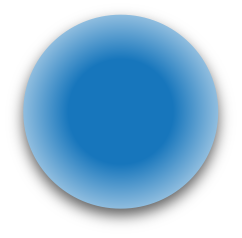
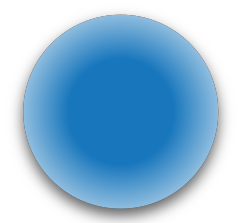
- Startbutton durch Label ersetzt - neue Bilder für Flaschen eingefügt mit Rahmen

diff --git a/GUI/main.py b/GUI/main.py
@@ -6,7 +6,8 @@ from PIL import Image, ImageTk
 import os
 
 # %% -----------------Farben definieren--------------------------------------------------------------------------------#
-col_Blue = '#%02x%02x%02x' % (1, 105, 196)  # RGB values
+# col_Blue = '#%02x%02x%02x' % (1, 105, 196)  # RGB values
+col_Blue = '#%02x%02x%02x' % (18, 123, 202)  # RGB values TEC blue
 col_Grey = '#%02x%02x%02x' % (200, 200, 200)  # RGB values
 col_GlobalBackground = '#%02x%02x%02x' % (200, 200, 200)  # RGB light grey
 
@@ -45,7 +46,6 @@ root.title("Ausschankroboter")
 root.attributes('-fullscreen', True)
 root.configure(background=col_GlobalBackground)
 
-
 # %% -----------------Bilddateien importieren--------------------------------------------------------------------------#
 guiHintergrund = Image.open("images\GUI_Hintergrund.png")
 guiHintergrundFoto = ImageTk.PhotoImage(guiHintergrund)
@@ -61,16 +61,19 @@ hsrtLogoFoto = ImageTk.PhotoImage(hsrtLogo)
 buttonStart = Image.open("images\\Buttonstart.png")
 buttonStartFoto = ImageTk.PhotoImage(buttonStart)
 
-weizen = Image.open("images\\Weizen.png")
+weizen = Image.open("images\\weizenFrame.png") # TODO copyright?!
 weizenFoto = ImageTk.PhotoImage(weizen)
 
-cola = Image.open("images\\Cola.png")
+cola = Image.open("images\\colaFrame.png") # TODO copyright?!
 colaFoto = ImageTk.PhotoImage(cola)
-
 
 # %% -----------------Styles konfigurieren-----------------------------------------------------------------------------#
 style = ttk.Style()
-style.theme_use('clam')
+#style.theme_use('clam')
+
+# ttk azure theme anwenden: für grundlegendes Design, danach individuelle Anpassungen
+root.tk.call("source", "azure.tcl")
+root.tk.call("set_theme", "light")
 
 # alle Pages Hintergrundfarbe
 style.configure("global_page_style.TFrame",
@@ -80,7 +83,7 @@ style.configure("global_page_style.TFrame",
 style.configure("BW.TLabel",
                 foreground="black",
                 background="#cdcdcd",
-                font=("Arial", 25))
+                font=("Segoe UI", 25))
 
 # Label Hintergrund wie alle Pages
 style.configure("invisible_label.TLabel",
@@ -90,13 +93,21 @@ style.configure("invisible_label.TLabel",
 style.configure("TButton",
                 font=("Arial", 30))
 
+#Start-Label
+style.configure("labelStart.TLabel",
+                font=(None, 40),
+                background=col_GlobalBackground,
+                foreground='white'
+                )
+'''
 # Start-Button
 style.configure("buttonStart.TButton",
                 font=("Arial", 40, "bold"),
-                foreground="black",
-                background="#797979",
-                relief='raised')
-
+                foreground=col_GlobalBackground,
+                background=col_GlobalBackground,
+                borderwidth=0,
+                relief='none')
+'''
 
 # %% -----------------Pages/Frames erstellen---------------------------------------------------------------------------#
 page1 = ttk.Frame(root)  # Startseite
@@ -139,7 +150,6 @@ menu.add_cascade(label="Quit", menu=quitMenu)
 quitMenu.add_command(label="Fenster schließen",
                      command=closeWindow)
 
-
 # %% -----------------all pages----------------------------------------------------------------------------------------#
 for frame in (page1, page2, page3):
     frame.place(x=0, y=0, width=1920, height=1060)
@@ -158,8 +168,6 @@ for frame in (page1, page2, page3):
                       style="invisible_label.TLabel")
     label.place(x=1268, y=30)
 
-    # buttonLightDark = ttk.Button(frame, text="light/dark", command=lambda: change_theme())
-    # buttonLightDark.place(x=1790, y=30, width=100, height=40)
 showFrame(page1)
 
 # %% -----------------page1--------------------------------------------------------------------------------------------#
@@ -174,51 +182,48 @@ Willkommen_label.place(x=0,
                        width=1920,
                        height=300)
 
+labelStart = ttk.Label(page1, # TODO bind das Label, image ändern wenn Maus drüber, nächste Seite aufrufen mit showFrame() wenn geklickt
+                       image=buttonStartFoto,
+                       text="Start",
+                       compound="center",
+                       font=('Segoe UI', 30),
+                       style='labelStart.TLabel')
+labelStart.place(relx=0.5,
+                 y=850,
+                 anchor='center')
+'''
 buttonStart = ttk.Button(page1,
                          image=buttonStartFoto,
                          text="Start",
                          compound='center',
                          style="buttonStart.TButton",
                          command=lambda: showFrame(page2))
-buttonStart.place(relx=0.5, y=850, anchor='center')
-
+buttonStart.place(relx=0.5,
+                  y=850,
+                  anchor='center')
+'''
 # %% -----------------page2--------------------------------------------------------------------------------------------#
 labelWeizen = ttk.Label(page2,
                         image=weizenFoto,
                         style="invisible_label.TLabel")
 labelWeizen.place(x=30,
-                  y=200)
+                  y=250)
 
 labelCola = ttk.Label(page2,
-                        image=colaFoto,
-                        style="invisible_label.TLabel")
-labelCola.place(x=300,
-                y=200)
+                      image=colaFoto,
+                      style="invisible_label.TLabel")
+labelCola.place(x=320,
+                y=250)
 
-
-buttonBier = ttk.Button(page2,
-                        text="Bier",
-                        command=lambda: [showFrame(page3), open_popupConfirm()],
-                        style='button.TButton')
-buttonBier.place(x=760,
-                 y=700,
-                 width=400,
-                 height=200)
-
-buttonCola = ttk.Button(page2,
-                        text="Cola",
-                        command=lambda: showFrame(page3),
-                        style='button.TButton')
-buttonCola.place(x=1360,
-                 y=700,
-                 width=400,
-                 height=200)
 
 # %% -----------------page3--------------------------------------------------------------------------------------------#
 buttonStartBier = ttk.Button(page3, text="Bierglas steht drin",
                              command=lambda: showFrame(page3),
                              style='button.TButton')
-buttonStartBier.place(x=1360, y=700, width=400, height=200)
+buttonStartBier.place(x=1360,
+                      y=700,
+                      width=400,
+                      height=200)
 
 # %% -----------------start mainloop-----------------------------------------------------------------------------------#
 root.mainloop()
